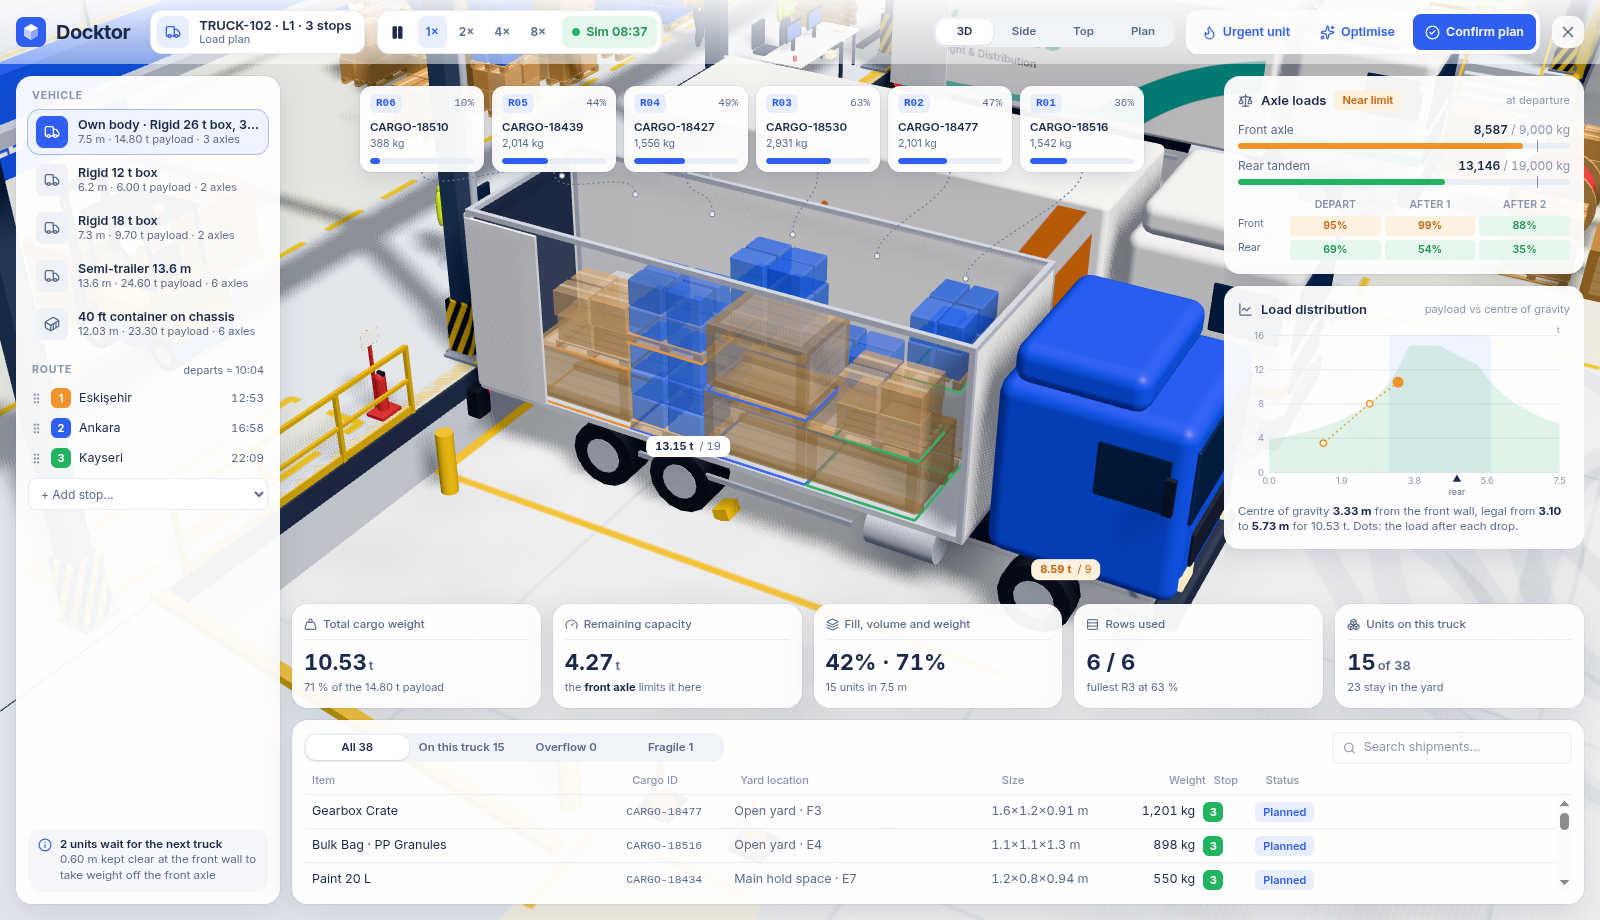
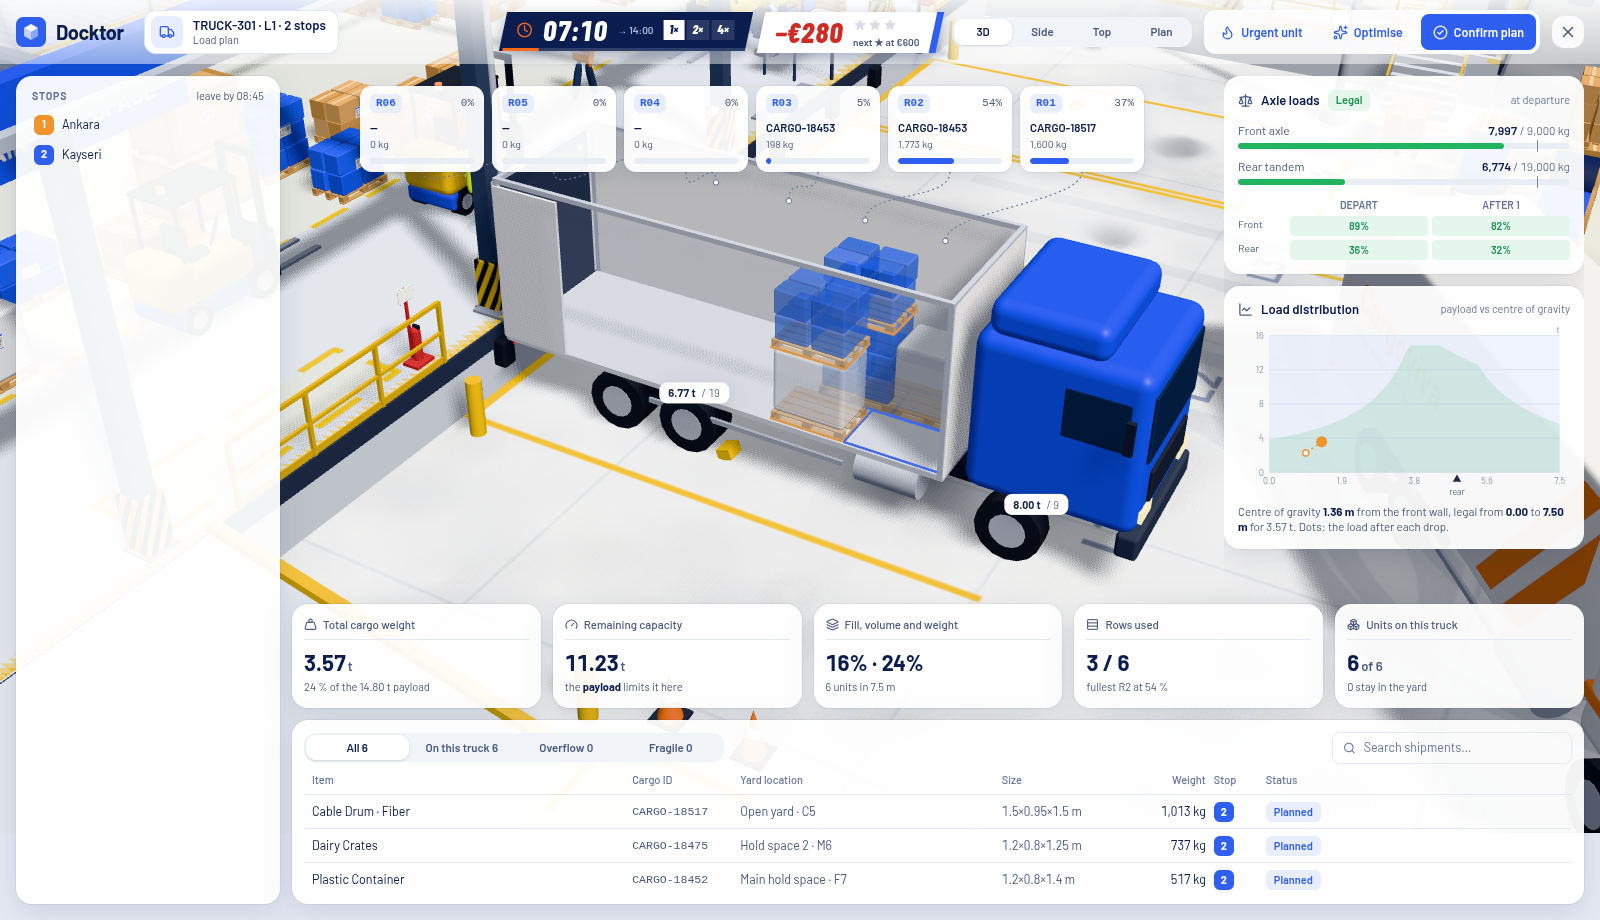
Describe the training game in the README

diff --git a/src/game/devPlay.ts b/src/game/devPlay.ts
@@ -1,5 +1,6 @@
 import { clock } from '../sim/clock';
 import { useUi } from '../state/ui';
+import { useView } from '../state/view';
 import { basicBot, goodBot } from './bots';
 import { useGame } from './store';
 
@@ -16,6 +17,10 @@ export function devPlay(bot: string, until: number) {
   }
   clock.t = until;
   useGame.getState().tick();
-  const select = new URLSearchParams(window.location.search).get('select');
+  const q = new URLSearchParams(window.location.search);
+  const select = q.get('select');
   if (select) useUi.getState().select({ kind: select.startsWith('TRUCK') ? 'truck' : 'cargo', id: select });
+  const plan = q.get('plan');
+  // After the camera controls exist (they take a moment after load).
+  if (plan) window.setTimeout(() => useView.getState().openPlanner(plan), 1500);
 }

diff --git a/README.md b/README.md
@@ -1,59 +1,75 @@
-# Docktor · 3D Yard
+# Docktor · Yard Manager
 
-A digital twin of a logistics yard for **Docktor**: a game-like 3D view of the yard with an
-operations dashboard on top. Trucks, forklifts and workers move through the yard, cargo sits
-in free-form storage areas, and each unit can carry its source documents (bill, CMR, delivery note,
-invoice), entered by hand. A load planner packs the trucks at the loading bays from the cargo in the yard.
+A training game for yard managers, set in a 3D logistics yard. You run a shift: trucks arrive
+at the gate, you decide which bay each one gets, where incoming cargo is stored, how outbound trucks
+are loaded and when they leave, and a forklift crew carries out your decisions against the clock.
+The shift is scored in money, and every fine names the rule behind it.
 
 **Live demo: https://warehouse-yard-dashboard.vercel.app/**
 
-![Docktor yard twin: walled yard with free-form storage, loading bays and the operations dashboard](docs/screenshot.png)
+![A shift in progress: scoreboard, truck timeline, crew queue and a selected truck](docs/screenshot.png)
+
+## How a shift plays
+
+- **The clock.** A shift runs 06:00–14:00 on the scoreboard, about 13 real minutes at 1×. Speed it
+  up with 2× / 4× (keys `1` `2` `3`). `Esc` pauses, and covers the yard while paused.
+- **Inbound trucks** queue at the kerb outside the gate. The first 5 minutes are free; after that
+  waiting costs €12 a minute. Click a truck, send it to a free bay, pick a storage area, and the
+  crew unloads it (€40 per unit stored).
+- **Outbound trucks** come to collect. Give one a bay, press **Plan load**: the load planner packs it
+  from the yard, checking axle loads, stacking, fragile units and drop order. Confirm, and the crew
+  loads it. Dispatch it before its deadline (€80 per unit delivered, €15 a minute if late).
+- **The crew** works a job queue from the top. Move jobs up or down, or mark a truck urgent.
+- **Trouble:** missing papers (a clerk fixes them, or rush one for €40), forklift breakdowns (rent a
+  temp forklift), rain (move cartons and bags under cover), closed bays, rush orders, overtime.
+- **The report** at full time shows profit and stars, the money in and out, every fine with its time
+  and rule, and one lesson for the retry.
+
+## The campaign
+
+| # | Shift | Teaches |
+|---|---|---|
+| 1 | Opening the gate | Bays and the gate waiting fee |
+| 2 | Where it goes | Choosing the storage area |
+| 3 | First load | Load planner, dispatch, deadlines |
+| 4 | Paper chase | Missing papers, the clerk, rush fees |
+| 5 | The queue | Reordering jobs, urgent trucks |
+| 6 | Breakdown | Renting a temp forklift |
+| 7 | Bad weather | Rain, cover, a closed bay |
+| 8 | Rush order | A surprise truck, overtime |
+| 9 | Peak day | Everything at once |
+
+One star unlocks the next shift. Progress is kept in the browser.
 
 ## Load planner
 
-Select a truck at a loading bay and press **Plan load**. The planner proposes how the truck is
-packed from the yard units bound for its stops, and the manager decides.
-
 ![Load planner: a cut-away truck with its planned load, axle loads, load distribution and the cargo table](docs/load-planner.png)
 
-**Planning**
-- **Packing:** the last stop goes to the front wall and every stop can come out through the doors.
-  Nothing is stacked on fragile or weak units.
-- **Weight checks:** every axle is checked at departure and after each drop, and a load-distribution chart
-  shows the legal centre-of-gravity window.
-- **Planner controls:**
-  - pick the truck's own body or another vehicle
-  - reorder the route
-  - mark units urgent or exclude them
-  - **Optimise** tries ~1,000 layouts and keeps the best
-- **Left-out units:** units that don't fit go to the next truck on the route or wait in the yard, each with
-  its reason.
-- **Views:** 3D, Side, Top and a 2D Plan drawing with the loading order.
-
-**Loading**
-- **Confirm** stores the plan.
-- **Load at dock** sends two forklifts through the yard (up the ramp too) to bring each unit into the
-  truck, one at a time inside the truck.
-- **Follow** keeps the camera on the forklift, **Skip** finishes the run, and **Dispatch** sends the truck
-  off with its load.
+The planner packs the truck from the yard units bound for its stops: the last stop goes to the front
+wall, every stop can come out through the doors, nothing is stacked on fragile units, and every axle is
+checked at departure and after each drop. **Optimise** tries ~1,000 layouts in a Web Worker and keeps the
+best; **Urgent unit** forces a unit on. Units that don't fit wait in the yard with their reason.
 
 ## How it's made
 
 - **React + TypeScript + Vite**, 3D with **three.js** via **React Three Fiber** and drei, UI with
   **Tailwind CSS**, state in **Zustand**.
-- The whole yard is generated from one config file in meters (`src/config/devYard.ts`), traced from
-  a hand-drawn plan: walls, buildings, raised hold spaces, ramp, loading bays, storage areas.
-  Buildings, vehicles and cargo are procedural low-poly geometry; trees and roads are CC0 models by Kenney.
-- Vehicle movement is simulated: routes are pure functions of time, so pausing and speeding up are free.
-  Cargo placement keeps clear of every route automatically.
-- **Load planner:**
-  - The solver is plain TypeScript in `src/loading` (vehicle presets, axle statics, an extreme-point packer, seeded search in a Web Worker).
-  - The loading run is one-shot forklift routes over an A* grid of the yard (`src/sim`).
-  - The solver's recommended plan, the manager's confirmed plan and what was actually loaded are kept apart.
-- Cargo, documents, history and load plans are saved in the browser (localStorage).
+- **The shift engine** (`src/game`) is plain TypeScript: a recipe and a fixed seed generate the shift;
+  `act` applies a decision and `advance` fires everything due, in strict time order. The same recipe and
+  actions always give the same shift, to the cent. Every truck and forklift move is a one-shot route
+  planned at decision time (A* over the yard grid) and played back from the sim clock.
+- **Bots and balancing.** Two test bots play every shift headless: a slow-to-react *basic* one and a
+  *good* one. Star targets come from what they make (★ = basic, ★★★ = 95 % of good).
+- The yard is generated from one config file in meters (`src/config/devYard.ts`), traced from a
+  hand-drawn plan. Buildings, vehicles and cargo are procedural low-poly geometry; trees and roads are
+  CC0 models by Kenney.
 
 ```bash
 npm install
-npm run dev
-npm test
+npm run dev       # the game
+npm test          # engine, planner and UI logic tests
+npm run balance   # bot profits and star targets per shift
 ```
+
+In development, `?shift=<id>&bot=good&t=<seconds>` starts a shift and lets the good bot play it up to a
+time (handy for screenshots); `?brief=<id>` opens a briefing.
